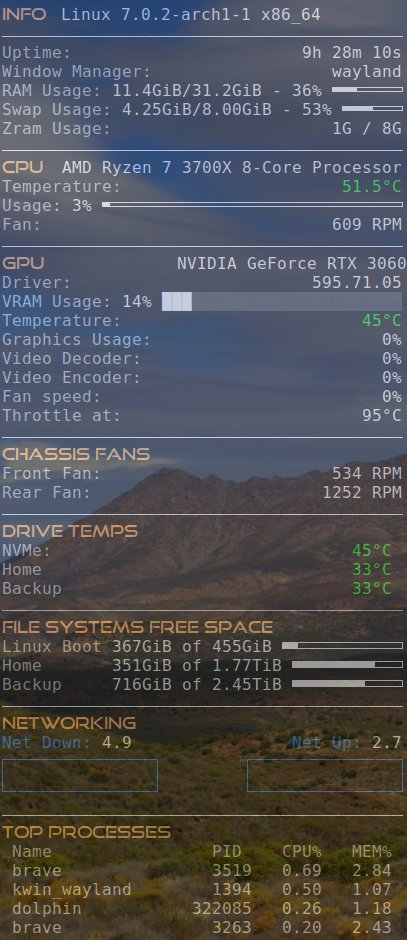
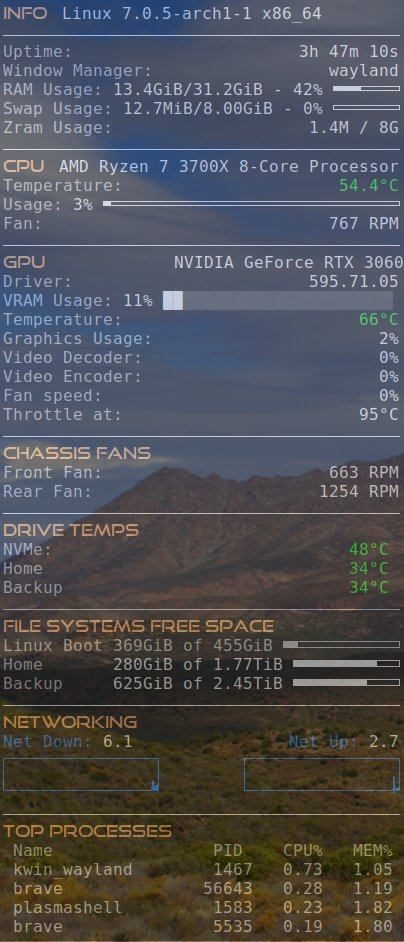
Boot drive free space alert added
1. I ran out of free space on my boot drive today and it happened because ghost files were created when my backup drive should have been mounted. So I adapted the Conky config to now go red if boot drive is more than 90% used.
2. The temp_alerts.lua file was also adapted to now cater for the drive space alert, as well as the temps it was previously monitoring.
3. Screenshot updated.

diff --git a/README.md b/README.md
@@ -56,3 +56,8 @@ I migrated to EndeavourOS and switched from using drive mounts at /run/media/use
 # Changes on 1 May 2026
 1. Removed all the individual calls inside conky.conf that were checking GPU metrics and this lightens the resource calls ton the GPU dramatically. They are now called once in a new gpu_stats.sh file. The gpu_stats.sh file outputs a display format that execpi can merge inside conky.conf.
 2. Added the VRAM Usage metric to show how much VRAM is in use (I'm experimenting with local AI). As it renders from the gpu_stats file I noticed none of teh standard progress bars worked all the time (they sometimes showed 0% progress) so I went with a text based options that looks a bit different from the other bars.
+
+# Changes 12 May 2026
+1. I ran out of free space on my boot drive today and it happened because ghost files were created when my backup drive should have been mounted. So I adapted the Conky config to now go red if boot drive is more than 90% used.
+2. The temp_alerts.lua file was also adapted to now cater for the drive space alert, as well as the temps it was previously monitoring.
+3. Screenshot updated.
